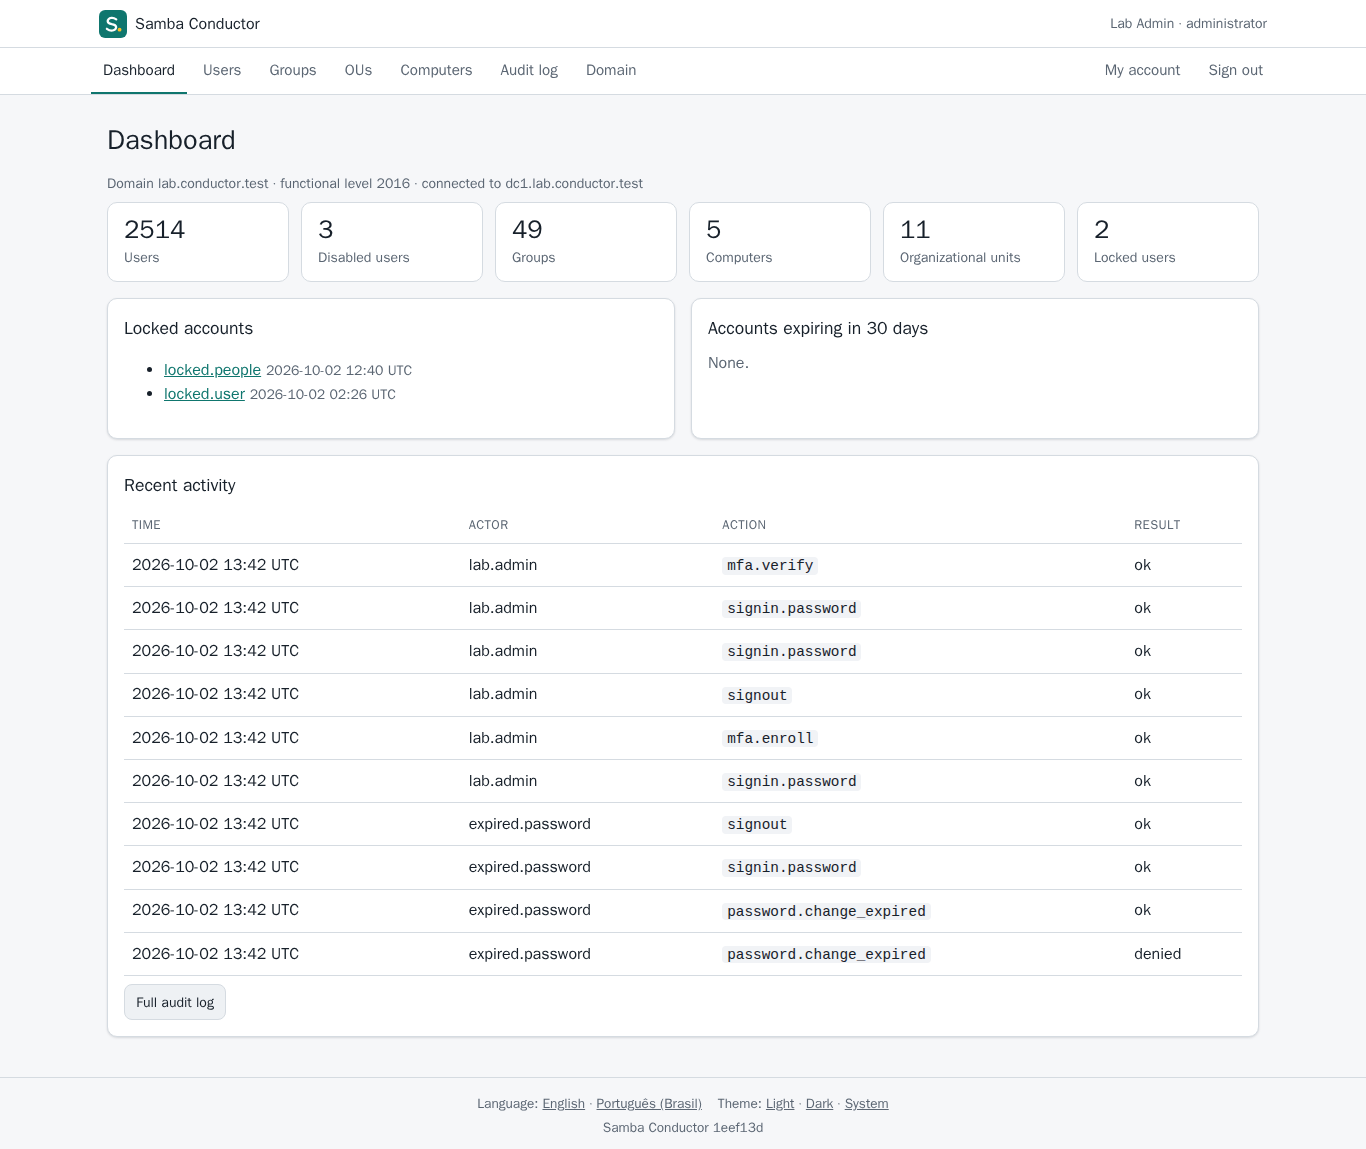
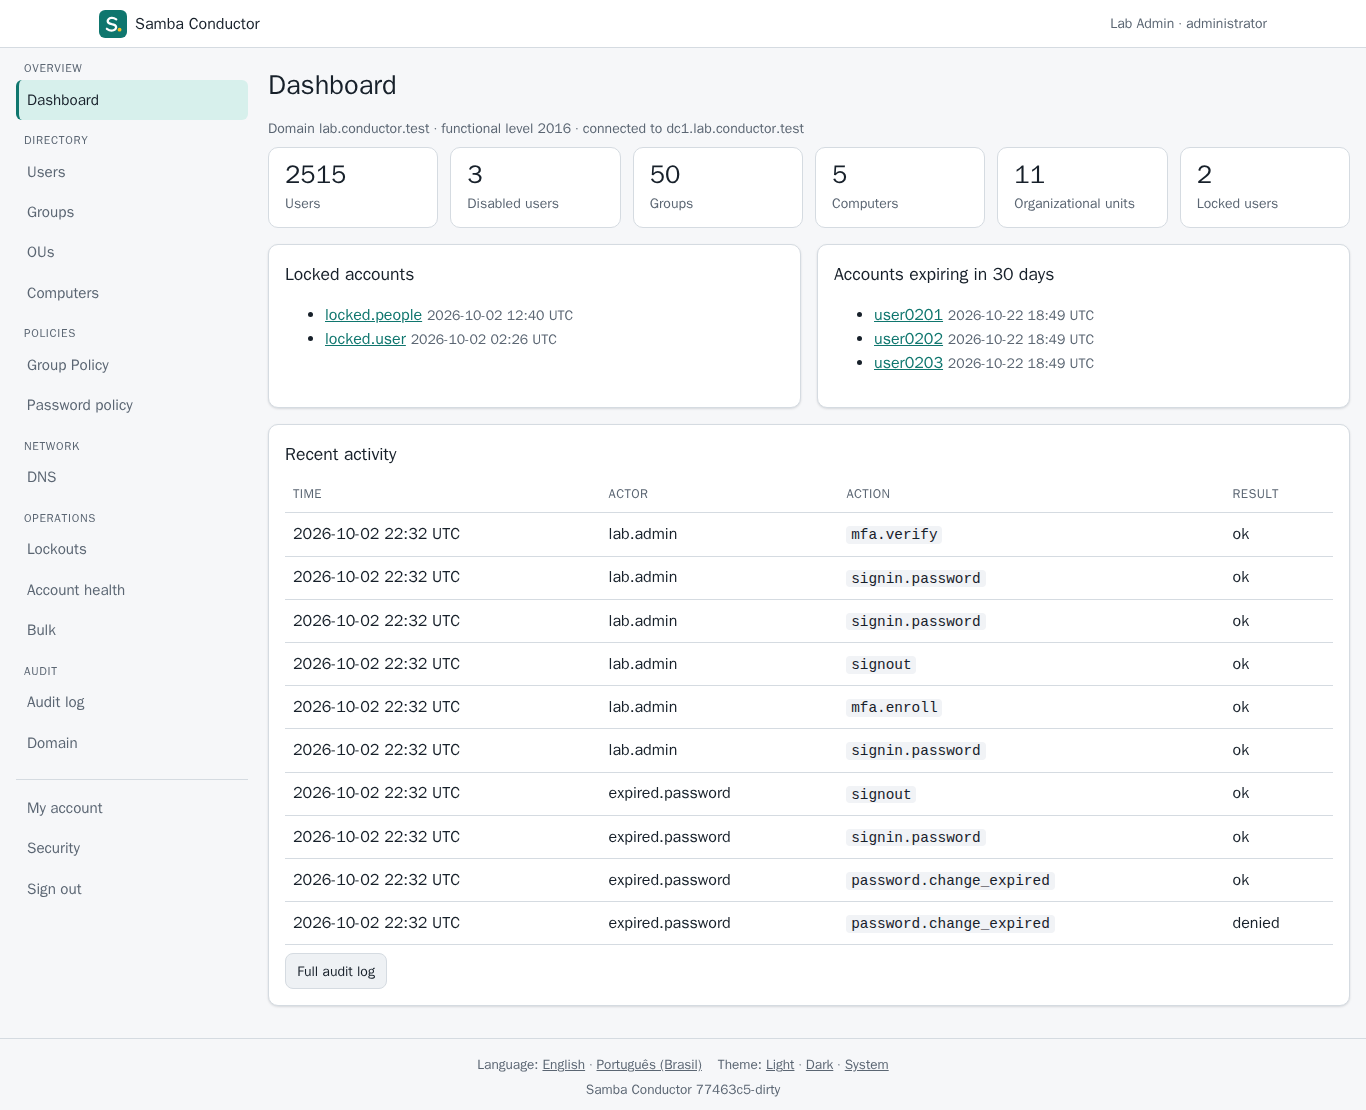
docs: P2 lab run (usage-p2) and P2 screenshots with the new sidebar
Claude-Session: https://claude.ai/code/session_017q1R5uYHxkN6x44UyiMPkF

diff --git a/docs/usage-p2.md b/docs/usage-p2.md
@@ -1,0 +1,167 @@
+# P2 lab run
+
+Transcript of `e2e/run-lab.sh` against the server-home lab
+(`../../planning/docs/lab.md`), run on 2026-10-02 from commit `b766779`. No
+secrets appear: passwords reach the Playwright container only through a
+temporary 0600 env file on server-home, the tests never log them, and this
+transcript was checked against the lab's secrets file before committing.
+Screenshots mask TOTP secrets, QR codes and recovery codes; the generated
+passwords shown in `11-job-passwords` and `12-bulk-result` belong to
+throwaway lab accounts that the next `reset.sh` destroys.
+
+What happens (spec `planning/docs/p2-spec.md` §7):
+
+1. `scripts/lab-deploy.sh --snapshot`: rsync to server-home, build both
+   binaries there, reset the lab to `seeded` (the P2 seed: DNS zones
+   `apps.conductor.test` and `0.93.10.in-addr.arpa`, four lab GPOs with
+   links and a blocked OU, the 20-day PSO `lab-staff-20d`, accounts
+   expiring soon, `stale.user`), install on dc1 with
+   `planning/lab/conductor-install.sh` (`conductor setup` now also writes
+   `[webauthn] rp_id = "dc1.lab.conductor.test"`), snapshot both DCs as
+   `conductor-p2` (`conductor-p1` is kept as it was).
+2. Per project (`desktop` 1366×900, `mobile` Pixel 7): `reset.sh
+   conductor-p2`, an enrollment link for `lab.admin`, the suite in
+   `mcr.microsoft.com/playwright:v1.62.1-noble`, then `conductor audit
+   verify` on dc1.
+
+| Spec | Covers |
+|---|---|
+| `01`-`07` | the P1 suite, unchanged (see [usage-p1.md](usage-p1.md)) |
+| `08-dns` | zones of both partitions; DCs listed as discovered; the AD zones without a delete control; `_ldap._tcp` and the DC records AD-managed (no edit/delete), `intranet` editable; paging of a 65-name zone; zone create with the dNSProperty values and SOA/NS naming the connected DC; A record add (decoded record and SOA serial 1 → 2 in the preview), edit (old value deleted by its exact bytes), MX/TXT/CNAME/SRV adds, invalid data refused, record delete, zone delete with typed name, tree-delete control and re-authentication; reverse zone from `198.51.100.0/24` with a PTR |
+| `09-gpo` | GPO list with links, enforced and disabled links, unlinked GPO; GPO view with the RSAT note and no delete while linked; link to an OU (assertion `(!(gPLink=*))`), second link at the lowest precedence, move up, enforce, disable, block and allow inheritance, unlink; GPO create and delete through `samba-tool` with the user's ticket (command in the preview, re-authentication for the delete) |
+| `10-policy` | domain policy with the lockout values; min length 7 → 8 with re-authentication and back; threshold 0 shows the "never lock out" warning (cancelled); effective policy of `user0101` = `lab-staff-20d` with its expiry; PSO create (precedence 5, length 14), apply to `user0301`, its effective policy, unapply, delete |
+| `11-health` | lockouts from dc1 and dc2 (per-DC bad-password counters: 3 on the DC that saw the attempts), unlock of a selected account through a job (preview, apply, report); expiring/expired, stale, disabled, never-signed-in lists; CSV export header; random password reset of two selected accounts, passwords shown once, downloaded once, then gone (410); delete of a selected account with the typed count and re-authentication |
+| `12-bulk` | strict template: wrong header refused; unknown OU, unknown group and a duplicate reported together and nothing written; create 3 users with group membership (full preview, re-authentication, 3 applied, report CSV, 3 passwords downloaded once); update (title, `(clear)`, disable, group remove, move); cleanup by a selected delete |
+| `13-webauthn` | a user registers a security key (the page alone loads the script; recovery codes issued), signs in with it; an administrator registers a key, re-authenticates a privileged-group change with it, removes it re-authenticating with the key; an authenticator without the credential is refused and the recovery code still works |
+| `14-roles-p2` | auditor: every P2 page read-only (no write controls, PSOs not visible to it, as AD intends), forged writes with a valid CSRF token refused (403), write pages 403; helpdesk: lockouts and health with only the helpdesk actions, DNS/GPO/policy/bulk 403, write actions on selections 403, a protected account refused before AD is asked |
+
+Every test also fails on any CSP violation or page error (the WebAuthn
+pages included: their script runs under its nonce and SRI hash).
+
+```text
+=== project desktop
+
+Running 34 tests using 1 worker
+
+  ✓   1 [desktop] › tests/01-anonymous.spec.ts:4:7 › anonymous visitor and sign-in failures › sign-in page, theme, language and security headers (1.2s)
+  ✓   2 [desktop] › tests/01-anonymous.spec.ts:30:7 › anonymous visitor and sign-in failures › anonymous access is limited to sign-in and static assets (843ms)
+  ✓   3 [desktop] › tests/01-anonymous.spec.ts:43:7 › anonymous visitor and sign-in failures › refused sign-ins get the right message (2.2s)
+  ✓   4 [desktop] › tests/01-anonymous.spec.ts:59:7 › anonymous visitor and sign-in failures › an administrator without 2FA needs an enrollment link (641ms)
+  ✓   5 [desktop] › tests/01-anonymous.spec.ts:66:7 › anonymous visitor and sign-in failures › per-account rate limit stops before AD locks the account (2.5s)
+  ✓   6 [desktop] › tests/02-expired-password.spec.ts:6:7 › must.change changes the password with the old one (2.5s)
+  ✓   7 [desktop] › tests/02-expired-password.spec.ts:6:7 › expired.password changes the password with the old one (2.0s)
+  ✓   8 [desktop] › tests/03-admin.spec.ts:4:7 › administrator › forced 2FA enrollment through the one-time link (3.3s)
+  ✓   9 [desktop] › tests/03-admin.spec.ts:26:7 › administrator › dashboard, users with server-side search and paging (7.1s)
+  ✓  10 [desktop] › tests/03-admin.spec.ts:59:7 › administrator › domain information through conductor-helper (25.9s)
+  ✓  11 [desktop] › tests/04-admin-cycle.spec.ts:5:5 › create, edit, move and delete with previews (1.7m)
+  ✓  12 [desktop] › tests/05-helpdesk.spec.ts:3:5 › helpdesk resets and unlocks in its OU, never on an administrator (8.1s)
+  ✓  13 [desktop] › tests/06-auditor.spec.ts:4:5 › auditor sees everything and changes nothing (9.6s)
+  ✓  14 [desktop] › tests/07-selfservice.spec.ts:3:5 › self-service profile, password and optional 2FA (57.4s)
+  ✓  15 [desktop] › tests/08-dns.spec.ts:4:7 › DNS › zones and records; AD records are read-only (4.8s)
+  ✓  16 [desktop] › tests/08-dns.spec.ts:42:7 › DNS › create a zone, add/edit/delete records, delete the zone (55.3s)
+  ✓  17 [desktop] › tests/08-dns.spec.ts:113:7 › DNS › a reverse zone from a network, with a PTR record (59.1s)
+  ✓  18 [desktop] › tests/09-gpo.spec.ts:4:7 › Group Policy › GPOs and links; settings editing is out of scope (32.0s)
+  ✓  19 [desktop] › tests/09-gpo.spec.ts:20:7 › Group Policy › link, enforce, disable, reorder, unlink, block inheritance (34.7s)
+  ✓  20 [desktop] › tests/09-gpo.spec.ts:64:7 › Group Policy › create and delete a GPO with the user own ticket (54.6s)
+  ✓  21 [desktop] › tests/10-policy.spec.ts:6:7 › password policy › domain policy: view, change with re-authentication, lockout warning (1.5m)
+  ✓  22 [desktop] › tests/10-policy.spec.ts:40:7 › password policy › fine-grained policy: create, apply, effective policy, remove (2.5m)
+  ✓  23 [desktop] › tests/11-health.spec.ts:5:7 › lockouts and account health › lockouts across both DCs; unlock selected (35.3s)
+  ✓  24 [desktop] › tests/11-health.spec.ts:36:7 › lockouts and account health › health lists, CSV export and a password reset of selected accounts (49.0s)
+  ✓  25 [desktop] › tests/11-health.spec.ts:89:7 › lockouts and account health › deleting selected accounts needs the typed count and re-authentication (38.0s)
+  ✓  26 [desktop] › tests/12-bulk.spec.ts:25:7 › bulk operations › invalid files are rejected as a whole, nothing applied (30.6s)
+  ✓  27 [desktop] › tests/12-bulk.spec.ts:45:7 › bulk operations › create users from CSV: full preview, apply, report, passwords once (59.8s)
+  ✓  28 [desktop] › tests/12-bulk.spec.ts:67:7 › bulk operations › update users from CSV: attributes, disable, group, move (1.0m)
+  ✓  29 [desktop] › tests/12-bulk.spec.ts:88:7 › bulk operations › clean up: delete the created users (selected, typed count) (59.6s)
+  ✓  30 [desktop] › tests/13-webauthn.spec.ts:17:7 › security keys (WebAuthn) › a user registers a key, then signs in with it (2.7s)
+  ✓  31 [desktop] › tests/13-webauthn.spec.ts:55:7 › security keys (WebAuthn) › an administrator re-authenticates a protected change with a key (55.6s)
+  ✓  32 [desktop] › tests/13-webauthn.spec.ts:95:7 › security keys (WebAuthn) › a wrong key or a cancelled ceremony is refused (840ms)
+  ✓  33 [desktop] › tests/14-roles-p2.spec.ts:7:7 › roles on the P2 pages › auditor: read-only DNS, GPO, policy, lockouts, health (13.9s)
+  ✓  34 [desktop] › tests/14-roles-p2.spec.ts:56:7 › roles on the P2 pages › helpdesk: lockouts and health with actions; no DNS, GPO, policy, bulk (22.1s)
+
+  34 passed (18.9m)
+=== audit chain on dc1 after the desktop run
+audit chain OK: 224 rows, head 04ecbc73ad81e1a3f04496adcf19d02f26fed99b650d096b6db1f4e9d3df70d5
+=== project mobile
+
+Running 34 tests using 1 worker
+
+  ✓   1 [mobile] › tests/01-anonymous.spec.ts:4:7 › anonymous visitor and sign-in failures › sign-in page, theme, language and security headers (1.4s)
+  ✓   2 [mobile] › tests/01-anonymous.spec.ts:30:7 › anonymous visitor and sign-in failures › anonymous access is limited to sign-in and static assets (854ms)
+  ✓   3 [mobile] › tests/01-anonymous.spec.ts:43:7 › anonymous visitor and sign-in failures › refused sign-ins get the right message (1.9s)
+  ✓   4 [mobile] › tests/01-anonymous.spec.ts:59:7 › anonymous visitor and sign-in failures › an administrator without 2FA needs an enrollment link (617ms)
+  ✓   5 [mobile] › tests/01-anonymous.spec.ts:66:7 › anonymous visitor and sign-in failures › per-account rate limit stops before AD locks the account (2.3s)
+  ✓   6 [mobile] › tests/02-expired-password.spec.ts:6:7 › must.change changes the password with the old one (2.1s)
+  ✓   7 [mobile] › tests/02-expired-password.spec.ts:6:7 › expired.password changes the password with the old one (2.1s)
+  ✓   8 [mobile] › tests/03-admin.spec.ts:4:7 › administrator › forced 2FA enrollment through the one-time link (3.5s)
+  ✓   9 [mobile] › tests/03-admin.spec.ts:26:7 › administrator › dashboard, users with server-side search and paging (25.5s)
+  ✓  10 [mobile] › tests/03-admin.spec.ts:59:7 › administrator › domain information through conductor-helper (23.9s)
+  ✓  11 [mobile] › tests/04-admin-cycle.spec.ts:5:5 › create, edit, move and delete with previews (1.7m)
+  ✓  12 [mobile] › tests/05-helpdesk.spec.ts:3:5 › helpdesk resets and unlocks in its OU, never on an administrator (8.2s)
+  ✓  13 [mobile] › tests/06-auditor.spec.ts:4:5 › auditor sees everything and changes nothing (11.7s)
+  ✓  14 [mobile] › tests/07-selfservice.spec.ts:3:5 › self-service profile, password and optional 2FA (53.9s)
+  ✓  15 [mobile] › tests/08-dns.spec.ts:4:7 › DNS › zones and records; AD records are read-only (4.6s)
+  ✓  16 [mobile] › tests/08-dns.spec.ts:42:7 › DNS › create a zone, add/edit/delete records, delete the zone (55.3s)
+  ✓  17 [mobile] › tests/08-dns.spec.ts:113:7 › DNS › a reverse zone from a network, with a PTR record (1.0m)
+  ✓  18 [mobile] › tests/09-gpo.spec.ts:4:7 › Group Policy › GPOs and links; settings editing is out of scope (32.4s)
+  ✓  19 [mobile] › tests/09-gpo.spec.ts:20:7 › Group Policy › link, enforce, disable, reorder, unlink, block inheritance (34.7s)
+  ✓  20 [mobile] › tests/09-gpo.spec.ts:64:7 › Group Policy › create and delete a GPO with the user own ticket (53.3s)
+  ✓  21 [mobile] › tests/10-policy.spec.ts:6:7 › password policy › domain policy: view, change with re-authentication, lockout warning (1.5m)
+  ✓  22 [mobile] › tests/10-policy.spec.ts:40:7 › password policy › fine-grained policy: create, apply, effective policy, remove (2.5m)
+  ✓  23 [mobile] › tests/11-health.spec.ts:5:7 › lockouts and account health › lockouts across both DCs; unlock selected (35.9s)
+  ✓  24 [mobile] › tests/11-health.spec.ts:36:7 › lockouts and account health › health lists, CSV export and a password reset of selected accounts (49.8s)
+  ✓  25 [mobile] › tests/11-health.spec.ts:89:7 › lockouts and account health › deleting selected accounts needs the typed count and re-authentication (36.1s)
+  ✓  26 [mobile] › tests/12-bulk.spec.ts:25:7 › bulk operations › invalid files are rejected as a whole, nothing applied (30.7s)
+  ✓  27 [mobile] › tests/12-bulk.spec.ts:45:7 › bulk operations › create users from CSV: full preview, apply, report, passwords once (1.0m)
+  ✓  28 [mobile] › tests/12-bulk.spec.ts:67:7 › bulk operations › update users from CSV: attributes, disable, group, move (59.7s)
+  ✓  29 [mobile] › tests/12-bulk.spec.ts:88:7 › bulk operations › clean up: delete the created users (selected, typed count) (59.7s)
+  ✓  30 [mobile] › tests/13-webauthn.spec.ts:17:7 › security keys (WebAuthn) › a user registers a key, then signs in with it (3.0s)
+  ✓  31 [mobile] › tests/13-webauthn.spec.ts:55:7 › security keys (WebAuthn) › an administrator re-authenticates a protected change with a key (55.5s)
+  ✓  32 [mobile] › tests/13-webauthn.spec.ts:95:7 › security keys (WebAuthn) › a wrong key or a cancelled ceremony is refused (843ms)
+  ✓  33 [mobile] › tests/14-roles-p2.spec.ts:7:7 › roles on the P2 pages › auditor: read-only DNS, GPO, policy, lockouts, health (16.0s)
+  ✓  34 [mobile] › tests/14-roles-p2.spec.ts:56:7 › roles on the P2 pages › helpdesk: lockouts and health with actions; no DNS, GPO, policy, bulk (23.9s)
+
+  34 passed (19.3m)
+=== audit chain on dc1 after the mobile run
+audit chain OK: 224 rows, head 32494e5342f6e3c6418a14ad4c9def8bfead2a3736b61a61be43c64b4d286cc7
+```
+
+Unit and security tests (`make check` in both repositories: gofmt, go vet,
+staticcheck, govulncheck, `go test -race`, all clean; govulncheck still lists
+GO-2026-5932 in `golang.org/x/crypto` as present in a required module but not
+reachable). New in `internal/web`:
+
+- `TestRouteGuards` now walks the P2 routes too (anonymous, each sign-in
+  stage, each role).
+- `TestCSPScriptOnlyOnSecondFactorPages`: every GET page rendered; the six
+  second-factor routes carry `script-src 'nonce-…'` with the matching
+  `<script … nonce integrity>` and `connect-src 'none'`; every other page
+  has `script-src 'none'` and no `<script>`; the served script matches its
+  SRI hash and has no `fetch`, `XMLHttpRequest`, `eval` or `innerHTML`.
+- `TestWebAuthnEnrollAndSignIn`: a software authenticator (ES256, "none"
+  attestation) enrolls a key-only administrator through the one-time link,
+  signs in; TOTP refused when keys are required; foreign and replayed
+  assertions refused; the last key cannot be removed.
+- `TestBulkJobLifecycle` (owner-only jobs, every row failed and audited when
+  AD is unreachable, report CSV, interrupted after a restart),
+  `TestSelectedActionPermissions`, `TestParseCSV`, `TestNewPasswordComplexity`,
+  `TestCSVCellNeutralizesFormulas`, `TestZoneNameFromNetwork`.
+
+The `ad` library's lab tests (`make lab-test`): `TestLabDNSReadSeeded`,
+`TestLabDNSZoneLifecycle` (the DC's DNS answers right after each LDAP write;
+a stale SOA is a conflict), `TestLabGPOLinks` (a stale gPLink is a
+conflict), `TestLabPasswordPolicies` (a stale domain policy is a conflict;
+PSO precedence and effective policy), `TestLabDomainControllersAndPerDCState`
+and, as root on dc1, `TestLabGPOWithUserCCache` (samba-tool with only the
+user's exported ticket).
+
+Results (2026-10-02, full deploy): desktop 34 passed (18.9 min), mobile 34
+passed (19.3 min), nothing failed or skipped; `conductor audit verify` on dc1
+after each project reports the chain intact (lines in the transcript).
+The unlock of a selected account is written on every DC (see
+`planning/docs/decisions.md`): the lockouts test asserts the per-DC report
+(`dc1...: applied`, `dc2...: applied`) and then that the lockouts page no
+longer lists the account, with no waiting. The navigation is the grouped
+sidebar (a native `<details>` "Menu" on phones); `03-dashboard` shows it.
+
+Screenshots: [desktop](screenshots/desktop/) and [mobile](screenshots/mobile/)
+(`08-*` … `14-*` are P2).
